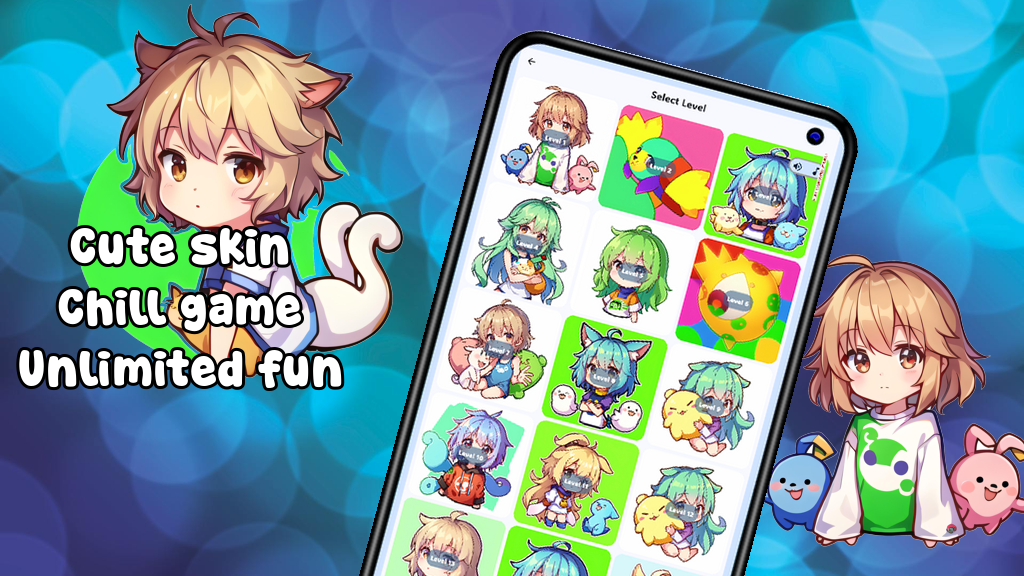
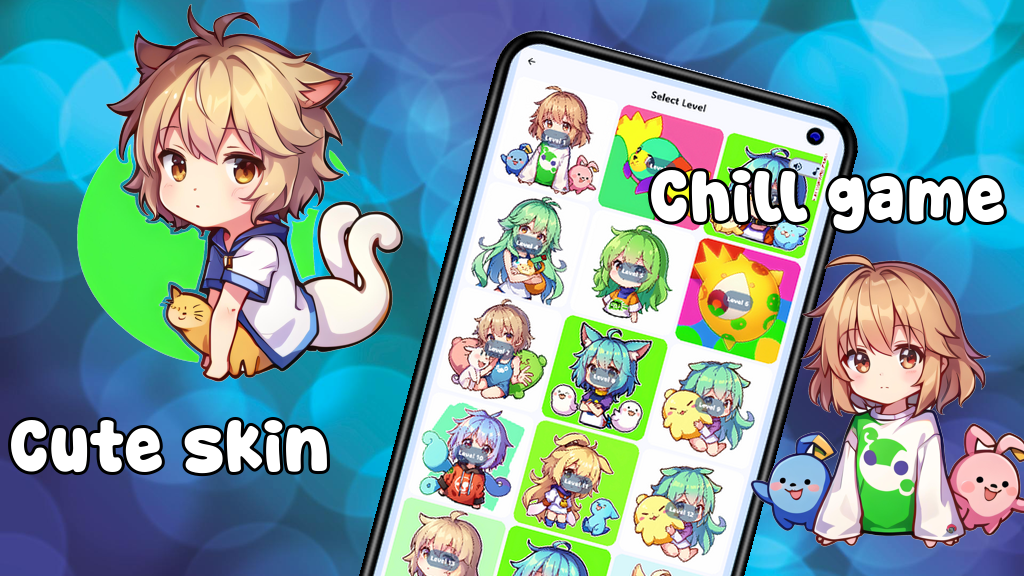
feat: complete core logical

diff --git a/create_screen_shoot.py b/create_screen_shoot.py
@@ -6,6 +6,7 @@ from py_tool_support.ultils import *
 from py_tool_support.steps.additional_text import *
 from py_tool_support.steps.background import *
 from py_tool_support.steps.sticker import *
+from py_tool_support.steps.text_process import *
 from py_tool_support.steps.devide_with_screenshoot_builder import *
 
 def export_image(new_img):
@@ -20,21 +21,14 @@ def create_image_with_background_frame_and_screenshot():
         print("Failed to process images.")
         return
     new_img = Image.new("RGBA", (width, height))
-    # Step 1: background add
     new_img.paste(bg_img)
-    # Step 2: sticker add
-    draw_stickers(new_img, stickers)
-    # Step 3: text add
     draw = ImageDraw.Draw(new_img)
-    max_text_width = width // 3
-    max_text_height = height // 3  
-    add_text_to_image_on_canvas(draw, text, font_path, max_text_width, max_text_height, height)
-    # Step 4: Add device frame with screenshot
     devices_image = process_devices(devices,width, height)
     for device_img in devices_image:
         if device_img:
             new_img.paste(device_img, (0, 0), device_img)
-    # Step 5: Export image result
+    add_stickers(new_img, stickers)
+    add_texts(new_img, texts,font_path)
     export_image(new_img)
 
 if __name__ == "__main__":
@@ -56,16 +50,14 @@ if __name__ == "__main__":
         background = config.get("background", "")
         text = config.get("text", "")
         font_path = config.get("font_path", "")
-        padding = config.get("padding", 0)
         mode = config.get("mode", "")
-        rotate = config.get("rotate", "")
         stickers = config.get("sticker", [])
         devices = config.get("devices", [])
+        texts = config.get("texts", "")
         print('---------------------START---------------------------------')
         print(f"Processing config: \033[92m{application_file}\033[0m")
         print(f"\tSize: \033[36m{width} - {height}\033[0m")
         print(f"\tBackground: \033[36m{background}\033[0m")
-        print(f"\tScreenshot rotating: \033[36m{rotate}\033[0m")
         print(f"\tStickers: \033[36m{len(stickers)}\033[0m")
         
         # Call the function with the loaded configuration

diff --git a/py_tool_support/steps/text_process.py b/py_tool_support/steps/text_process.py
@@ -1,0 +1,37 @@
+from PIL import ImageFont, ImageDraw
+import textwrap
+
+def add_texts(image, texts, font_path):
+    for aLineOfText in texts:
+        text = aLineOfText.get("text", "")
+        x = aLineOfText.get("x", 0)
+        y = aLineOfText.get("y", 0)
+        width = aLineOfText.get("width", 0)
+        size  = aLineOfText.get("size", 0)
+        try:
+            font = ImageFont.truetype(font_path, size)
+            draw = ImageDraw.Draw(image)
+            text_color = (255, 255, 255, 255)
+            stroke_color = (0, 0, 0, 255)
+            stroke_width = 3
+
+            # Calculate the average character width using font.getbbox
+            avg_char_width = font.getbbox("A")[2]  # The width of a single character
+            max_chars_per_line = int(width / avg_char_width)
+
+            # Wrap the text to fit within the specified width
+            wrapped_text = textwrap.fill(text, width=max_chars_per_line)
+
+            # Draw the wrapped text line by line
+            for line in wrapped_text.split("\n"):
+                draw.text((x, y),
+                          line,
+                          fill=text_color,
+                          font=font,
+                          align="center",
+                          stroke_width=stroke_width,
+                          stroke_fill=stroke_color)
+                y += font.getbbox(line)[3] - font.getbbox(line)[1]  # Move to the next line
+        except Exception as e:
+            print(f"\033[91mFailed to draw text: {text}. Error: {e}\033[0m")
+    return image

diff --git a/py_tool_support/steps/sticker.py b/py_tool_support/steps/sticker.py
@@ -16,7 +16,7 @@ def resize_sticker_to_fit(sticker_img, target_width, target_height):
     # Resize the sticker image
     return sticker_img.resize((new_width, new_height))
 
-def draw_stickers(image, stickers):
+def add_stickers(image, stickers):
     for sticker in stickers:
         try:
             sticker_img = Image.open(sticker["path"]).convert("RGBA")
